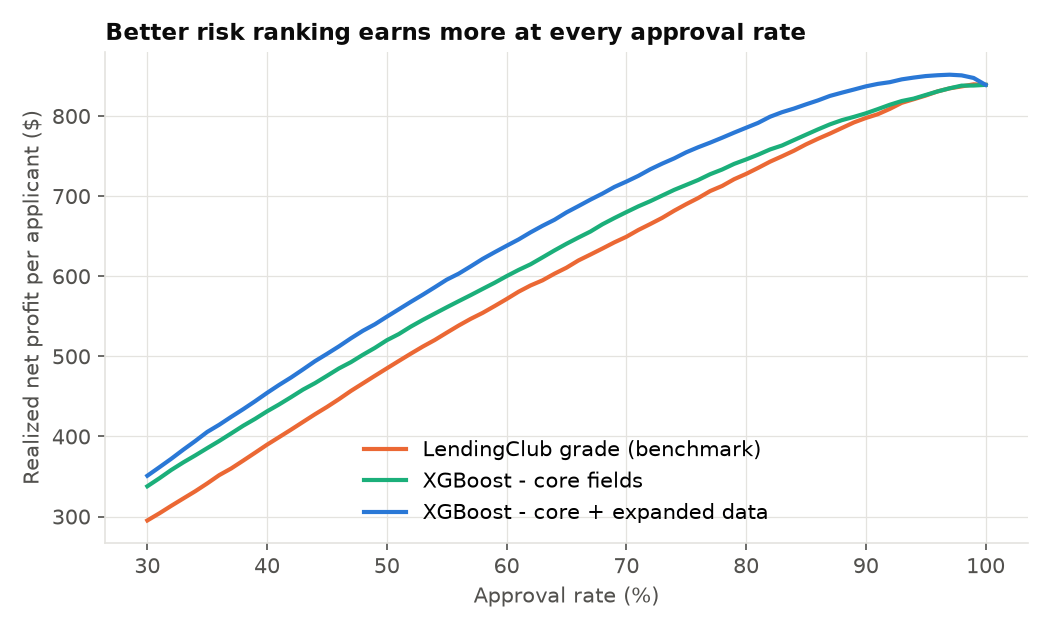
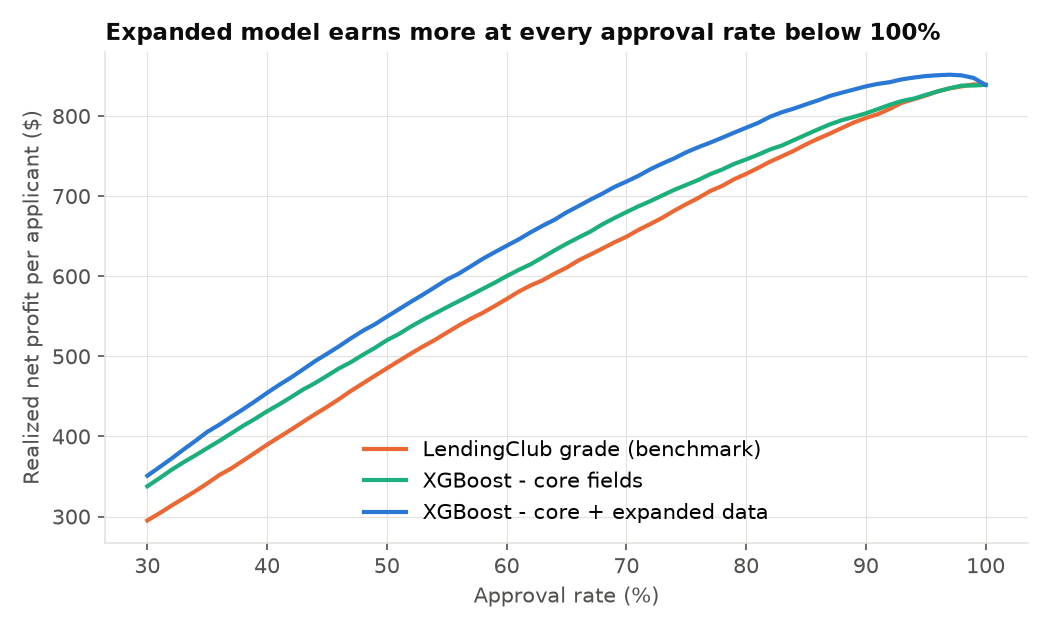
Tighten claims to match the evidence
- Four-fifths rule described as a screening heuristic, not a regulatory line
- Area-level fairness proxy described as coarser than tract-level redlining analysis
- Proxy screen and reason-code claims scoped to what was actually tested
- Profit claim limited to the expanded model (core model does not beat benchmark everywhere)
- Summary: drop 'fairer' framing, add area-level caveat, clarify calibration numbers

Changed region(s): [[0.0914, 0.0302, 0.9143, 0.0905]]

diff --git a/src/analyze.py b/src/analyze.py
@@ -160,7 +160,7 @@ def fig_profit(df):
         ax.plot(c["approval_rate"] * 100, c["profit_per_applicant"], color=color, label=label)
     ax.set_xlabel("Approval rate (%)")
     ax.set_ylabel("Realized net profit per applicant ($)")
-    ax.set_title("Better risk ranking earns more at every approval rate")
+    ax.set_title("Expanded model earns more at every approval rate below 100%")
     ax.legend(loc="lower center")
     fig.tight_layout()
     fig.savefig(REPORTS / "fig_profit.png")

diff --git a/README.md b/README.md
@@ -29,17 +29,17 @@ With only the core application fields, neither logistic regression nor XGBoost b
 
 ## Approach
 
-**Population.** 36-month loans issued 2012–2015 that reached a final outcome (Fully Paid or Charged Off). Only fully matured vintages are used. Keeping recent vintages would keep only the loans that ended *early*, which over-represents defaults and prepayments.
+**Population.** 36-month loans issued 2012–2015 that reached a final outcome (Fully Paid or Charged Off). These vintages have essentially all run their course: only 147 loans (0.02%) were still open and were excluded. Using recent vintages would keep only the loans that ended *early*, which over-represents defaults and prepayments.
 
 **Out-of-time split.** Train on the 2012–2014 vintages (306K loans, 13.3% default rate). Test on the 2015 vintage (283K loans, 14.9% default rate). This mirrors real deployment: a model built on past loans has to perform on future ones, even as the credit mix shifts.
 
-**No leakage.** Only fields known at application time are model inputs. Post-origination fields (payments, recoveries, updated FICO) are used only to measure each loan's realized profit.
+**No leakage.** Only fields known at application time are model inputs. Post-origination fields (payments, recoveries, updated FICO, etc.) are excluded; total payments received are used only to measure each loan's realized profit, never as a feature.
 
 **Feature sets.**
 - *Core (10 features):* FICO, DTI, income, loan amount, employment length, payment-to-income, loan-to-income, home ownership, purpose, income verification. This is roughly what a score-driven underwriter sees.
 - *Expanded (48 features):* core plus 38 credit-file attributes, including revolving and bankcard utilization, accounts opened recently, months since the last inquiry and the newest card, account age, delinquency history, and limits and balances. These stand in for evaluating a new data source.
 
-**Models.** Logistic regression (quantile-normalized, L2-regularized), the industry-standard scorecard baseline, and XGBoost (early-stopped). Both are fit on each feature set. LendingClub's sub-grade, its own priced risk model, is the benchmark.
+**Models.** Logistic regression (quantile-normalized, L2-regularized), the standard baseline in credit scoring, and XGBoost (early-stopped). Both are fit on each feature set. LendingClub's sub-grade, its own priced risk model, is the benchmark.
 
 **Business translation.** Rank applicants by predicted risk and approve the lowest-risk X%. Then measure the default rate and realized profit (total payments − amount funded) of the approved book, and compare policies at equal approval rate and at equal default rate.
 
@@ -59,7 +59,7 @@ With only the core application fields, neither logistic regression nor XGBoost b
 
 ![Top risk drivers](reports/fig_drivers.png)
 
-**Profit.** At every approval rate, better risk ranking earns more realized profit per applicant.
+**Profit.** The expanded model earns more realized profit per applicant than both the benchmark and the core model at every approval rate below 100% (at 100% everyone is approved, so all scorers are equal).
 
 ![Profit vs approval rate](reports/fig_profit.png)
 
@@ -67,23 +67,23 @@ With only the core application fields, neither logistic regression nor XGBoost b
 
 Ranking risk well is not the same as predicting the *level* of risk correctly. Pricing, loss forecasts, and reserves depend on the level. To recalibrate without touching the test year, `src/calibrate.py` fits the expanded XGBoost on 2012–2013, calibrates on 2014 (the latest vintage a lender would have in hand), and evaluates on 2015.
 
-| 2015 test | Uncalibrated | Platt scaling | Isotonic |
+| 2015 test (model fit on 2012–13) | Uncalibrated | Platt scaling | Isotonic |
 |---|---|---|---|
 | Expected calibration error (pct pts) | 1.90 | 1.32 | **1.29** |
 | Brier score | 0.1199 | 0.1197 | 0.1197 |
 | Mean predicted vs. observed default | 13.0% vs. 14.9% | 13.6% vs. 14.9% | 13.6% vs. 14.9% |
 
-**Finding:** recalibration cuts calibration error by about a third, but a gap remains. The Platt slope is 0.96, so the model's risk *shape* is nearly right. The miss is a level shift: 2015 loans simply defaulted more than 2014 loans (14.9% vs. 13.7%). No calibrator fit on past data can anticipate that. The production answer is ongoing monitoring of the gap between predicted and actual defaults by vintage, with periodic recalibration as early-delinquency data arrives, not a one-time fix.
+**Finding:** recalibration cuts calibration error by about a third, but a gap remains. The Platt slope is 0.96, so the model's risk *shape* is nearly right. The miss is a level shift: 2015 loans simply defaulted more than 2014 loans (14.9% vs. 13.7%). A calibrator fit only on past outcomes cannot anticipate that kind of shift. The production answer is ongoing monitoring of the gap between predicted and actual defaults by vintage, with periodic recalibration as early-delinquency data arrives, not a one-time fix.
 
-Trade-off: holding out 2014 for calibration means the calibrated model trains on less recent data (AUC 0.688 vs. 0.698 for the main model). In practice you refit on all vintages and carry the calibration mapping forward, re-checking it each quarter.
+Trade-off: holding out 2014 for calibration means the calibrated model trains on less recent data (AUC 0.688 vs. 0.698 for the main model). In practice the calibration is re-estimated on the most recent held-out outcomes each time the model is refit, and monitored in between.
 
 ![Calibration](reports/fig_calibration.png)
 
 ## Fair-lending review
 
-LendingClub data has no applicant race, ethnicity, or sex, and none of those are model inputs. To test for disparate impact, `src/fair_lending.py` uses an **area-level proxy**, the standard approach in redlining reviews. Each loan's 3-digit ZIP is joined to **Census ACS 2017–2021** data on minority population share and median household income (99.97% of loans matched).
+LendingClub data has no applicant race, ethnicity, or sex, and none of those are model inputs. To test for disparate impact, `src/fair_lending.py` uses an **area-level proxy**, similar to the geographic analysis used in redlining reviews (those typically use census tracts; LendingClub only discloses 3-digit ZIPs, so this is coarser). Each loan's 3-digit ZIP is joined to **Census ACS 2017–2021** data on minority population share and median household income (99.97% of loans matched).
 
-**1. Adverse impact ratio (AIR).** This is each group's approval rate divided by the reference group's, under an 80% approval policy. The four-fifths rule flags an AIR below 0.80.
+**1. Adverse impact ratio (AIR).** This is each group's approval rate divided by the reference group's, under an 80% approval policy. A common rule of thumb, borrowed from the employment-law four-fifths rule, flags an AIR below 0.80. It is a screening heuristic, not a legal safe harbor.
 
 | Group (reference) | LendingClub grade | XGBoost core | XGBoost expanded |
 |---|---|---|---|
@@ -91,15 +91,15 @@ LendingClub data has no applicant race, ethnicity, or sex, and none of those are
 | Majority-minority areas (vs. other) | 0.988 | 0.991 | 0.988 |
 | Low/moderate-income areas (vs. other) | 0.953 | 0.948 | **0.942** |
 
-All groups clear the threshold by a wide margin. The new model **does not widen the gap by area minority share**. It does slightly lower the LMI-area ratio versus the incumbent (0.942 vs. 0.953). That is the item to monitor and the starting point for a less-discriminatory-alternative search.
+All groups clear the 0.80 screen by a wide margin. By area minority share, the new model's ratios are **essentially unchanged from the benchmark** (0.983 vs. 0.983; 0.988 vs. 0.988). It does slightly lower the LMI-area ratio versus the incumbent (0.942 vs. 0.953). That is the item to monitor and the starting point for a less-discriminatory-alternative search.
 
 ![Fairness](reports/fig_fairness.png)
 
 **2. Differential prediction.** The model does not over-predict risk for any group. Its default predictions run *below* actual defaults everywhere (the vintage drift above), and the gap is largest in highest-minority areas (13.9% predicted vs. 15.9% observed) and LMI areas (14.8% vs. 16.9%). Ranking quality (AUC) is consistent across minority-share quartiles (0.694–0.700) and slightly lower in LMI areas (0.689).
 
-**3. Proxy screen.** No model input is a strong proxy for area minority share. The highest absolute Spearman correlation is 0.14 (number of mortgage accounts). ZIP code and state are not model inputs.
+**3. Proxy screen.** No numeric model input is strongly correlated with area minority share: the highest absolute Spearman correlation is 0.14 (number of mortgage accounts). This is an area-level screen; it does not rule out individual-level proxy effects, and the categorical inputs (home ownership, purpose, income verification) were not screened. ZIP code and state are not model inputs.
 
-**4. Adverse-action reason codes.** ECOA and Regulation B require specific reasons for a decline. For each declined applicant, the top risk-increasing SHAP contributions give those reasons. The most common principal reasons are payment-to-income (32%), accounts opened in the last 24 months (24%), and debt-to-income (10%). All are specific and actionable, and none is a demographic proxy.
+**4. Adverse-action reason codes.** ECOA and Regulation B require specific reasons for a decline. For a sample of 20,000 declined applicants, the top risk-increasing SHAP contributions (XGBoost TreeSHAP) were used as reason codes. The most common principal reasons are payment-to-income (32%), accounts opened in the last 24 months (24%), and debt-to-income (10%). All are specific credit factors, and none is a demographic attribute.
 
 ![Reason codes](reports/fig_reason_codes.png)
 
@@ -116,7 +116,7 @@ All groups clear the threshold by a wide margin. The new model **does not widen 
 ```bash
 python3.11 -m venv .venv && source .venv/bin/activate
 pip install -r requirements.txt
-./run.sh      # downloads data (~1.7 GB), then prepare -> train -> analyze -> calibrate -> fair lending (~4 min)
+./run.sh      # downloads data (~1.7 GB), then prepare -> train -> analyze -> calibrate -> fair lending (~2 min after download)
 ```
 
 | File | Purpose |

diff --git a/SUMMARY.md b/SUMMARY.md
@@ -1,4 +1,4 @@
-# Better Data for Fairer, Safer Lending: One-Page Summary
+# Better Data for Safer Lending, Checked for Fairness: One-Page Summary
 
 *A plain-language summary of this project. For the technical details, see the [README](README.md).*
 
@@ -29,18 +29,19 @@ The strongest warning signs were monthly payment relative to income, credit scor
 
 Lending models must not disadvantage people based on race or where they live. The data doesn't record race, so I used Census data to group loans by the demographics and income of each borrower's area.
 
-- **Approval rates stayed close across areas.** Areas with the highest share of minority residents were approved at 98% of the rate of the lowest-share areas. Lower-income areas were approved at 94%. The common regulatory warning line is 80%.
-- **The model didn't overstate risk for any group.** If anything, it slightly *under*estimated defaults in higher-minority and lower-income areas.
-- **Every declined applicant can be told why.** The model produces specific reasons, such as "payment too high relative to income," which lenders are legally required to give.
+- **Approval rates stayed close across areas.** Areas with the highest share of minority residents were approved at 98% of the rate of the lowest-share areas. Lower-income areas were approved at 94%. A common rule of thumb flags anything below 80%.
+- **The model didn't overstate risk for any group.** It underestimated defaults everywhere, slightly more so in higher-minority and lower-income areas.
+- **Declined applicants can be told why.** The model produces specific reasons for each decision, such as "payment too high relative to income," which lenders are legally required to give.
 
 One item to watch: in lower-income areas, the new model approves slightly fewer people than LendingClub's grade did (94% vs. 95% of the reference rate). It's well within guidelines, but it's the first thing I would monitor.
 
 ## What it can't tell us yet
 
 - **Only approved loans are in the data.** We can't see how rejected applicants would have done.
-- **Conditions change.** Defaults rose in 2015, and the model's risk estimates ran low (13.6% predicted vs. 14.9% actual). Adjusting on the most recent year helped only a little. A real lender would need to monitor the model and update it regularly.
+- **The fairness check looks at neighborhoods, not individuals.** The data has no race information, so results describe areas (3-digit ZIP codes), which is a rough view.
+- **Conditions change.** Defaults rose in 2015. Even after adjusting the model on the most recent year, it predicted a 13.6% default rate against 14.9% actual. A real lender would need to monitor the model and update it regularly.
 - **Profit figures are simplified.** They leave out funding and servicing costs.
 
 ## Bottom line
 
-**A careful look beyond the credit score can let a lender say "yes" to more people at the same risk, without creating unfair outcomes,** provided it keeps checking that both stay true over time.
+**A careful look beyond the credit score can let a lender say "yes" to more people at the same risk, with no sign of unfair outcomes in this area-level check,** provided it keeps checking that both stay true over time.
